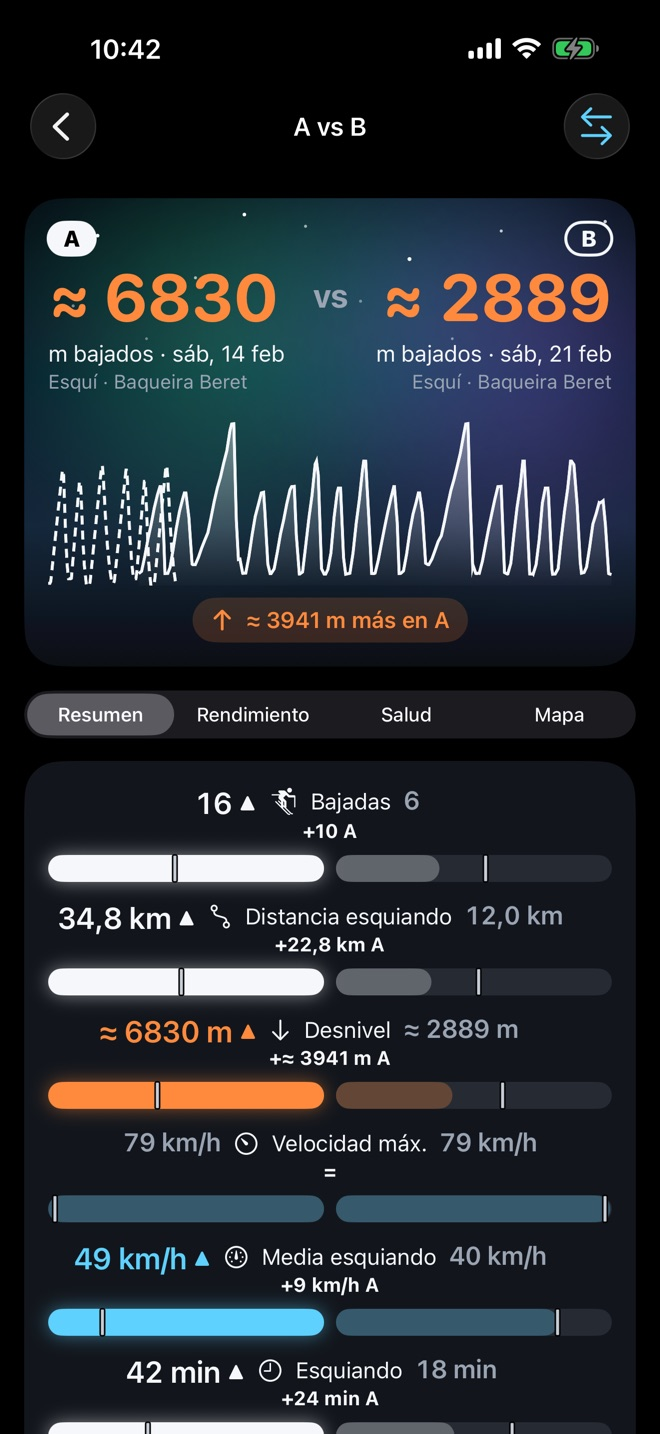
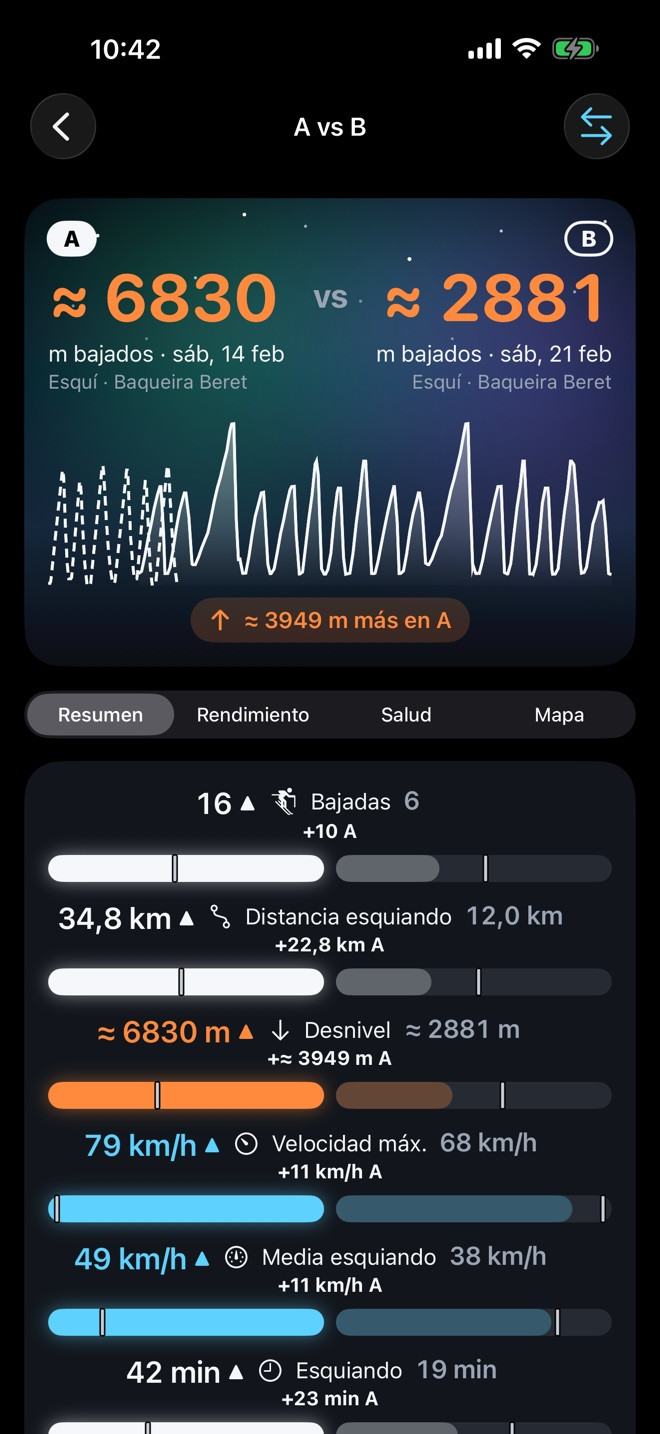
Portada: el 21 de febrero a 68 km/h en el comparador; capturas nuevas
Claude-Session: https://claude.ai/code/session_014E4hTPbcahqZyZpaTTnay8

diff --git a/index.html b/index.html
@@ -489,11 +489,11 @@
         <span class="vs" aria-hidden="true">VS</span>
         <div class="dia b" data-lado="b">
           <span class="chip nom-b">Sáb, 21 feb</span>
-          <span class="grande"><span class="cuenta-num" data-valor="2889" data-prefijo="≈">≈2889</span></span>
+          <span class="grande"><span class="cuenta-num" data-valor="2881" data-prefijo="≈">≈2881</span></span>
           <small>metros bajados</small>
         </div>
       </div>
-      <span class="ventaja" id="ventaja" data-plantilla="↑ ≈{v} m más bajados el {d}">↑ ≈3941 m más bajados el 14 feb</span>
+      <span class="ventaja" id="ventaja" data-plantilla="↑ ≈{v} m más bajados el {d}">↑ ≈3949 m más bajados el 14 feb</span>
 
       <ul class="filas" id="filas">
         <li class="fila" data-a="16" data-b="6" data-unidad="">
@@ -502,15 +502,15 @@
         <li class="fila" data-a="34.8" data-b="12.0" data-dec="1" data-unidad=" km">
           <span class="eti">Distancia esquiando · <span class="dif">22,8 km más el 14 feb</span></span>
           <span class="v va gana">34,8 km</span><span class="barras" aria-hidden="true"><span class="barra ba"><i></i></span><span class="barra bb"><i></i></span></span><span class="v vb pierde">12,0 km</span></li>
-        <li class="fila" data-a="79" data-b="79" data-unidad=" km/h">
-          <span class="eti">Velocidad máxima · <span class="dif">Empate</span></span>
-          <span class="v va">79 km/h</span><span class="barras" aria-hidden="true"><span class="barra ba"><i></i></span><span class="barra bb"><i></i></span></span><span class="v vb">79 km/h</span></li>
-        <li class="fila" data-a="49" data-b="40" data-unidad=" km/h">
-          <span class="eti">Media esquiando · <span class="dif">9 km/h más el 14 feb</span></span>
-          <span class="v va gana">49 km/h</span><span class="barras" aria-hidden="true"><span class="barra ba"><i></i></span><span class="barra bb"><i></i></span></span><span class="v vb pierde">40 km/h</span></li>
-        <li class="fila" data-a="42" data-b="18" data-unidad=" min">
-          <span class="eti">Tiempo esquiando · <span class="dif">24 min más el 14 feb</span></span>
-          <span class="v va gana">42 min</span><span class="barras" aria-hidden="true"><span class="barra ba"><i></i></span><span class="barra bb"><i></i></span></span><span class="v vb pierde">18 min</span></li>
+        <li class="fila" data-a="79" data-b="68" data-unidad=" km/h">
+          <span class="eti">Velocidad máxima · <span class="dif">11 km/h más el 14 feb</span></span>
+          <span class="v va gana">79 km/h</span><span class="barras" aria-hidden="true"><span class="barra ba"><i></i></span><span class="barra bb"><i></i></span></span><span class="v vb pierde">68 km/h</span></li>
+        <li class="fila" data-a="49" data-b="38" data-unidad=" km/h">
+          <span class="eti">Media esquiando · <span class="dif">11 km/h más el 14 feb</span></span>
+          <span class="v va gana">49 km/h</span><span class="barras" aria-hidden="true"><span class="barra ba"><i></i></span><span class="barra bb"><i></i></span></span><span class="v vb pierde">38 km/h</span></li>
+        <li class="fila" data-a="42" data-b="19" data-unidad=" min">
+          <span class="eti">Tiempo esquiando · <span class="dif">23 min más el 14 feb</span></span>
+          <span class="v va gana">42 min</span><span class="barras" aria-hidden="true"><span class="barra ba"><i></i></span><span class="barra bb"><i></i></span></span><span class="v vb pierde">19 min</span></li>
       </ul>
 
       <div class="ritmo">
@@ -519,8 +519,8 @@
           <div class="tramos" role="img" aria-label="14 de febrero: 8 minutos lento, 10 normal y 24 rápido">
             <span class="lento" data-min="8">8′</span><span class="normal" data-min="10">10′</span><span class="rapido" data-min="24">24′</span></div></div>
         <div class="tira" data-lado="b"><span class="dia-tira nom-b" aria-hidden="true">21 feb</span>
-          <div class="tramos" role="img" aria-label="21 de febrero: 5 minutos lento, 9 normal y 4 rápido">
-            <span class="lento" data-min="5">5′</span><span class="normal" data-min="9">9′</span><span class="rapido" data-min="4">4′</span></div></div>
+          <div class="tramos" role="img" aria-label="21 de febrero: 6 minutos lento, 10 normal y 3 rápido">
+            <span class="lento" data-min="6">6′</span><span class="normal" data-min="10">10′</span><span class="rapido" data-min="3">3′</span></div></div>
         <div class="leyenda"><span style="--c: var(--lento)">Lento &lt;30</span><span style="--c: var(--normal)">Normal 30–55</span><span style="--c: var(--rapido)">Rápido &gt;55 km/h</span></div>
       </div>
 
@@ -554,8 +554,8 @@
     </div>
 
     <div class="telefonos tres aparece">
-      <div class="telefono"><img src="img/09-comparador.jpg" alt="Comparador: ≈6830 m bajados el sábado 14 de febrero frente a ≈2889 m el 21, con 16 bajadas frente a 6" loading="lazy"></div>
-      <div class="telefono"><img src="img/10-comparador-rendimiento.jpg" alt="Rendimiento: velocímetro con 79 km/h en los dos días y minutos bajando a cada velocidad" loading="lazy"></div>
+      <div class="telefono"><img src="img/09-comparador.jpg" alt="Comparador: ≈6830 m bajados el sábado 14 de febrero frente a ≈2881 m el 21, con 16 bajadas frente a 6" loading="lazy"></div>
+      <div class="telefono"><img src="img/10-comparador-rendimiento.jpg" alt="Rendimiento: velocímetro con 79 km/h el 14 de febrero frente a 68 km/h el 21, y minutos bajando a cada velocidad" loading="lazy"></div>
       <div class="telefono"><img src="img/12-comparador-mapa.jpg" alt="Mapa del comparador: las rutas de los dos días en Baqueira Beret, con el marcador del 21 de febrero en un remonte a 18 km/h" loading="lazy"></div>
     </div>
   </div>
@@ -573,7 +573,7 @@
       <p>El desnivel de toda la temporada, comparado con la anterior a estas alturas, con tus días, bajadas y kilómetros. Tu tiempo en la nieve (bajando, en remontes y parado), tus récords como medallas que abren su día, las pistas que más repites y tus estaciones en el mapa.</p>
     </div>
     <div class="telefonos">
-      <div class="telefono"><img src="img/07-temporada.jpg" alt="Temporada 2025/26: 86.669 m de desnivel bajado, 21 días, 182 bajadas, 627,2 km, 6 estaciones y tu tiempo en la nieve" loading="lazy"></div>
+      <div class="telefono"><img src="img/07-temporada.jpg" alt="Temporada 2025/26: 86.661 m de desnivel bajado, 21 días, 182 bajadas, 627,2 km, 6 estaciones y tu tiempo en la nieve" loading="lazy"></div>
       <div class="telefono"><img src="img/08-temporada-records.jpg" alt="Pistas de la temporada por dificultad y tus estaciones en el mapa" loading="lazy"></div>
     </div>
   </section>
